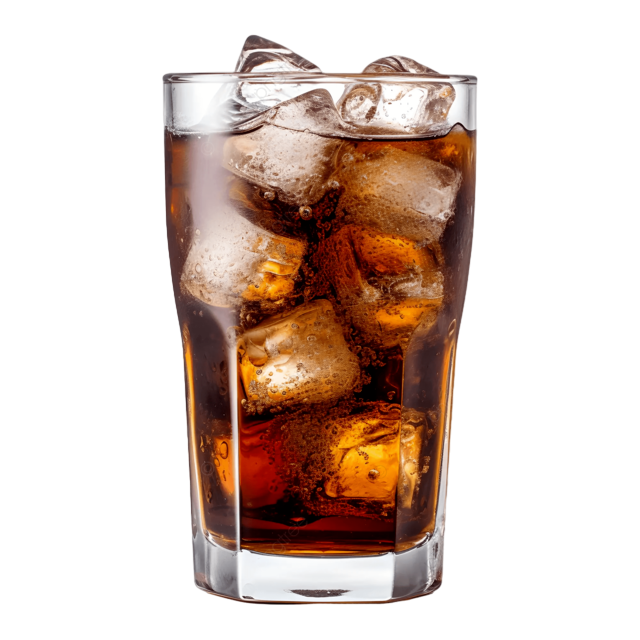
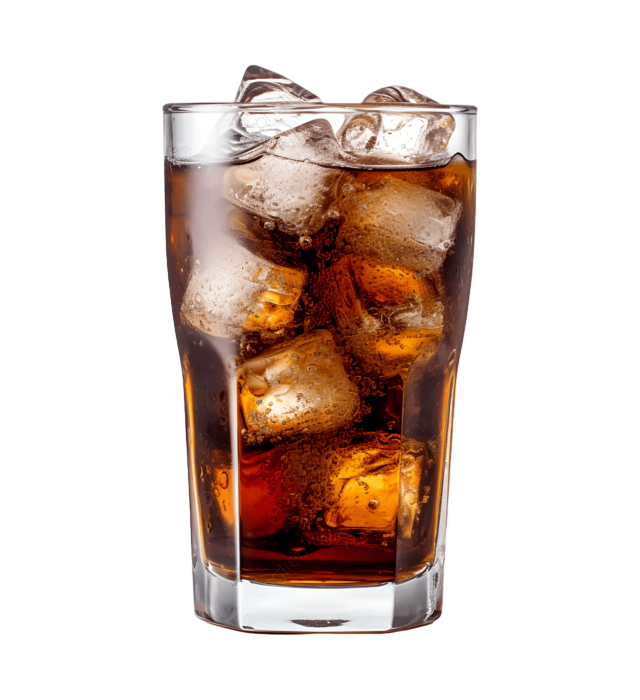
Ridimensionamento di alcune immagini nel menù

Changed region(s): [[0.25, 0.0312, 0.75, 0.9688]]

diff --git a/Menu/menu.html b/Menu/menu.html
@@ -123,7 +123,7 @@
                             <div class="front">
                                 <div class="flexbox" style=" flex-direction: column;">
                                     <div class="Oggetto">Anelli di Cipolla</div>
-                                    <img class="immagine" src="onionrings.png" draggable="false" width="140px" height="120px">
+                                    <img class="immagine" src="onionrings.png" draggable="false" width="140px" height="160px">
                                 </div>
                             </div>
                             <div class="back">
@@ -195,7 +195,7 @@
                             <div class="front">
                                 <div class="flexbox" style=" flex-direction: column;">
                                     <div class="Oggetto">Cola</div>
-                                    <img class="immagine" src="cola.png" draggable="false" width="125px" height="125px">
+                                    <img class="immagine" src="cola.png" draggable="false" width="125px" height="140px">
                                 </div>
                             </div>
                             <div class="back">
@@ -222,7 +222,7 @@
                             <div class="front">
                                 <div class="flexbox" style=" flex-direction: column;">
                                     <div class="Oggetto">Tè freddo</div>
-                                    <img class="immagine" src="tefreddo.png" draggable="false" width="125px" height="110px">
+                                    <img class="immagine" src="tefreddo.png" draggable="false" width="125px" height="145px">
                                 </div>
                             </div>
                             <div class="back">
@@ -241,7 +241,7 @@
                             <div class="front">
                                 <div class="flexbox" style=" flex-direction: column;">
                                     <div class="Oggetto">Cheesecake</div>
-                                    <img class="immagine" src="cheesecake.png" draggable="false" width="140px" height="125px">
+                                    <img class="immagine" src="cheesecake.png" draggable="false" width="140px" height="140px">
                                 </div>
                             </div>
                             <div class="back">
